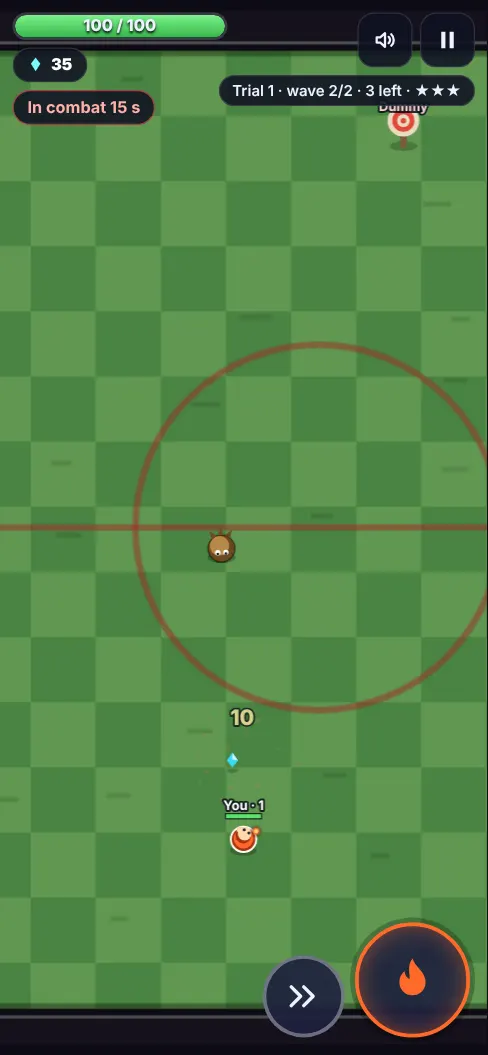
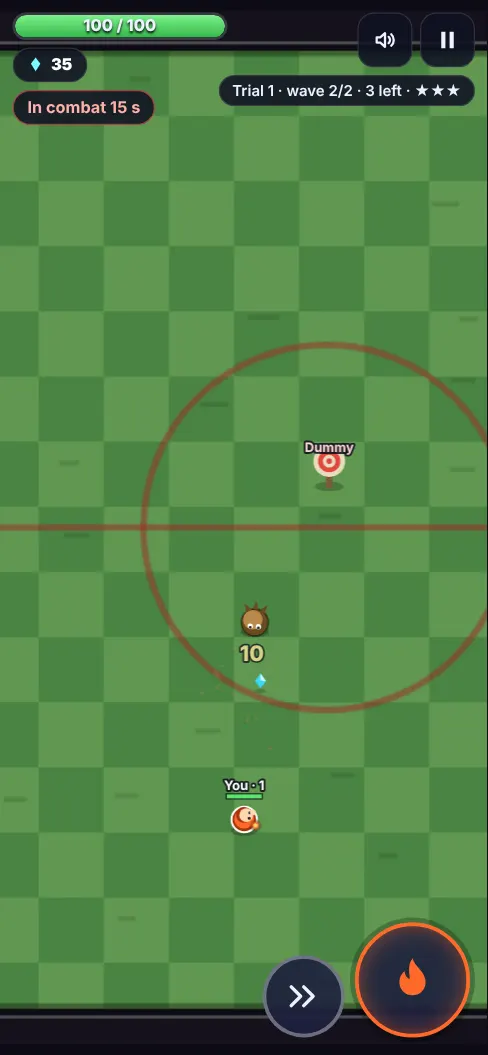
Élémentia : images du jeu et affiche redessinées après un redimensionnement
Le contrôle de GitHub trouvait l'image 2 presque vide : un événement resize arrivé après
la mise en place effaçait le canvas, que rien ne redessinait (image figée, sans boucle).
L'image figée est maintenant redessinée en continu, l'affiche après chaque resize ;
hasard à graine fixe pour les images, épreuve 13 pour l'image du milieu ;
pas de menu pause automatique sur une image figée.

Claude-Session: https://claude.ai/code/session_01Rc5wuWUiA9P5cpTRdVaHNP

diff --git a/games/elementia/index.html b/games/elementia/index.html
@@ -8398,6 +8398,7 @@ const Main = {
     // Sauvegarde à la fermeture de la page, seulement pendant une partie (jamais depuis l'écran titre).
     JEL_SAVE.surFermeture(() => { if (this.mode !== 'title') Save.write(); });
     document.addEventListener('visibilitychange', () => {
+      if (this.frozen) return;
       if (!document.hidden) { this.last = performance.now(); return; }
       if (this.started && !UI.cur && !Camp.over() && !G.player.dead) UI.open('pause');
     });
@@ -8506,29 +8507,51 @@ window.addEventListener('load', () => { Main.boot(); });
    JEL_AFFICHE : scène composée, héros en grand face à un colosse. JEL_APERCU 1 à 3 : une épreuve en pleine action, figée. */
 const Preview = {
   open(n) {
-    const P = { 1: { lvl: 1, el: 'feu', tier: 1, wave: 1, t: 2.6, cry: 35 }, 2: { lvl: 10, el: 'glace', tier: 3, wave: 1, t: 3.4, cry: 640 }, 3: { lvl: 20, el: 'foudre', tier: 4, wave: 2, t: 3.6, cry: 2480 } }[+n] || { lvl: 1, el: 'feu', tier: 1, wave: 0, t: 2.6, cry: 35 };
-    Main.show(null); G.spectate = null; Main.mode = 'play'; Main.started = true;
-    S.el = P.el; S.tiers[P.el] = P.tier; S.equip = { el: P.el, tier: P.tier }; S.crystals = P.cry; S.camp.lvl = P.lvl;
-    for (let i = 0; i < P.lvl - 1; i++) S.camp.stars[i] = 3 - (i % 3 === 2 ? 1 : 0);
-    if (P.lvl > 1) { S.auras.vitesse = 2; S.aura = 'vitesse'; S.items.push('p_renard', 't_etoiles'); S.pet = 'p_renard'; S.trail = 't_etoiles'; }
-    $('hud').classList.remove('hidden');
-    Camp.start(P.lvl, true, P.wave); UI.elColor(); $('announce').classList.remove('on'); clearTimeout(UI.annT);
-    const p = G.player, c = Camp.cur;
-    p.ai = Camp.botAi(0.85);
-    for (let i = 0; i < P.t * 30; i++) {
-      G.time += 1 / 30; G.inst.update(1 / 30); Camp.update(1 / 30);
-      if (p.hp < 62) p.hp = 62; c.hp = p.hp; c.taken = Math.min(c.taken, c.L.s3 - 2);
-      if (c.end || !Camp.cur) break;
-    }
-    p.ai = null;
-    for (let i = 0; i < 12; i++) R.frame(0.1);
-    R.frame(0); UI.hud(1); UI.hudT = 0; UI.hud(1);
+    const P = { 1: { lvl: 1, el: 'feu', tier: 1, wave: 1, t: 2.6, cry: 35 }, 2: { lvl: 13, el: 'glace', tier: 3, wave: 1, t: 3.4, cry: 640 }, 3: { lvl: 20, el: 'foudre', tier: 4, wave: 2, t: 3.6, cry: 2480 } }[+n] || { lvl: 1, el: 'feu', tier: 1, wave: 0, t: 2.6, cry: 35 };
+    this.show(P, 1000 + (+n || 0) * 97);
+  },
+  /* Hasard fixé par une graine : la même image sur toutes les machines. Si l'épreuve se termine pendant la mise en place
+     (cas rare), on recommence avec la graine suivante : l'image montre toujours une partie en cours. */
+  show(P, seed) {
+    const R0 = Math.random;
+    try {
+      Main.show(null); G.spectate = null; Main.mode = 'play'; Main.started = true;
+      S.el = P.el; S.tiers[P.el] = P.tier; S.equip = { el: P.el, tier: P.tier }; S.crystals = P.cry; S.camp.lvl = P.lvl;
+      for (let i = 0; i < P.lvl - 1; i++) S.camp.stars[i] = 3 - (i % 3 === 2 ? 1 : 0);
+      if (P.lvl > 1 && S.items.indexOf('p_renard') < 0) { S.auras.vitesse = 2; S.aura = 'vitesse'; S.items.push('p_renard', 't_etoiles'); S.pet = 'p_renard'; S.trail = 't_etoiles'; }
+      $('hud').classList.remove('hidden');
+      UIH.levelEnd = () => {};
+      for (let k = 0; k < 8; k++) {
+        Math.random = mulberry(seed + k * 31);
+        Camp.start(P.lvl, true, P.wave);
+        const p = G.player, c = Camp.cur;
+        p.ai = Camp.botAi(0.85);
+        for (let i = 0; i < P.t * 30 && !c.end; i++) {
+          if (p.hp < 80) p.hp = 80; c.hp = p.hp; c.taken = Math.min(c.taken, c.L.s3 - 2);
+          G.time += 1 / 30; G.inst.update(1 / 30); Camp.update(1 / 30);
+        }
+        p.ai = null;
+        if (!c.end && !p.dead) break;
+      }
+      UI.elColor(); $('announce').classList.remove('on'); clearTimeout(UI.annT);
+      for (const id of ['end', 'brief', 'death', 'loot', 'panel']) $(id).classList.add('hidden');
+      for (let i = 0; i < 12; i++) R.frame(0.1);
+      R.frame(0); UI.hud(1); UI.hudT = 0; UI.hud(1); $('announce').classList.remove('on');
+    } finally { Math.random = R0; }
+    // L'image reste figée, mais elle est redessinée en continu : un redimensionnement de la page efface le canvas.
+    if (!Main.frozen) { Main.frozen = true; const again = () => { R.frame(0); requestAnimationFrame(again); }; requestAnimationFrame(again); }
   }
 };
 
 const Poster = {
   draw() {
     for (const k of ['title', 'create', 'hub', 'hud', 'panel', 'brief', 'end', 'death', 'loot']) $(k).classList.add('hidden');
+    Main.frozen = true; this.paint();
+    // Un redimensionnement de la page efface le canvas : on redessine l'affiche.
+    window.addEventListener('resize', () => this.paint());
+    for (const ms of [300, 900, 1600]) setTimeout(() => this.paint(), ms);
+  },
+  paint() {
     const g = R.g, W = R.W, H = R.H, k = Math.max(W / 600, H / 800);
     g.setTransform(R.dpr * k, 0, 0, R.dpr * k, R.dpr * (W - 600 * k) / 2, R.dpr * (H - 800 * k) / 2);
     const rng = mulberry(77), glow = (x, y, r, c, a = 1) => { const gr = g.createRadialGradient(x, y, 0, x, y, r); gr.addColorStop(0, c); gr.addColorStop(1, 'rgba(0,0,0,0)'); g.globalAlpha = a; g.fillStyle = gr; g.fillRect(x - r, y - r, r * 2, r * 2); g.globalAlpha = 1; };
